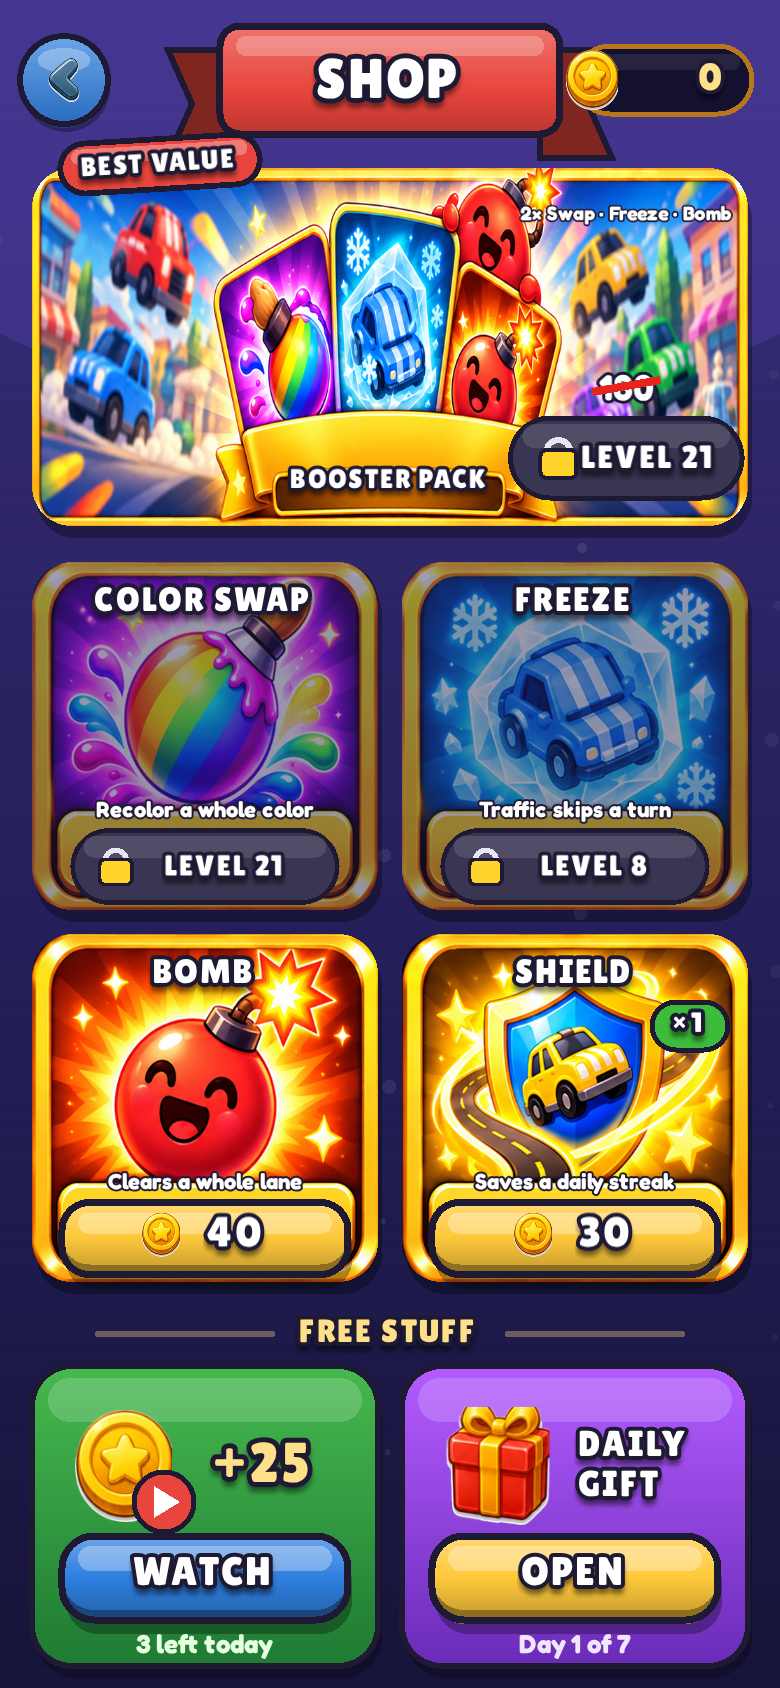
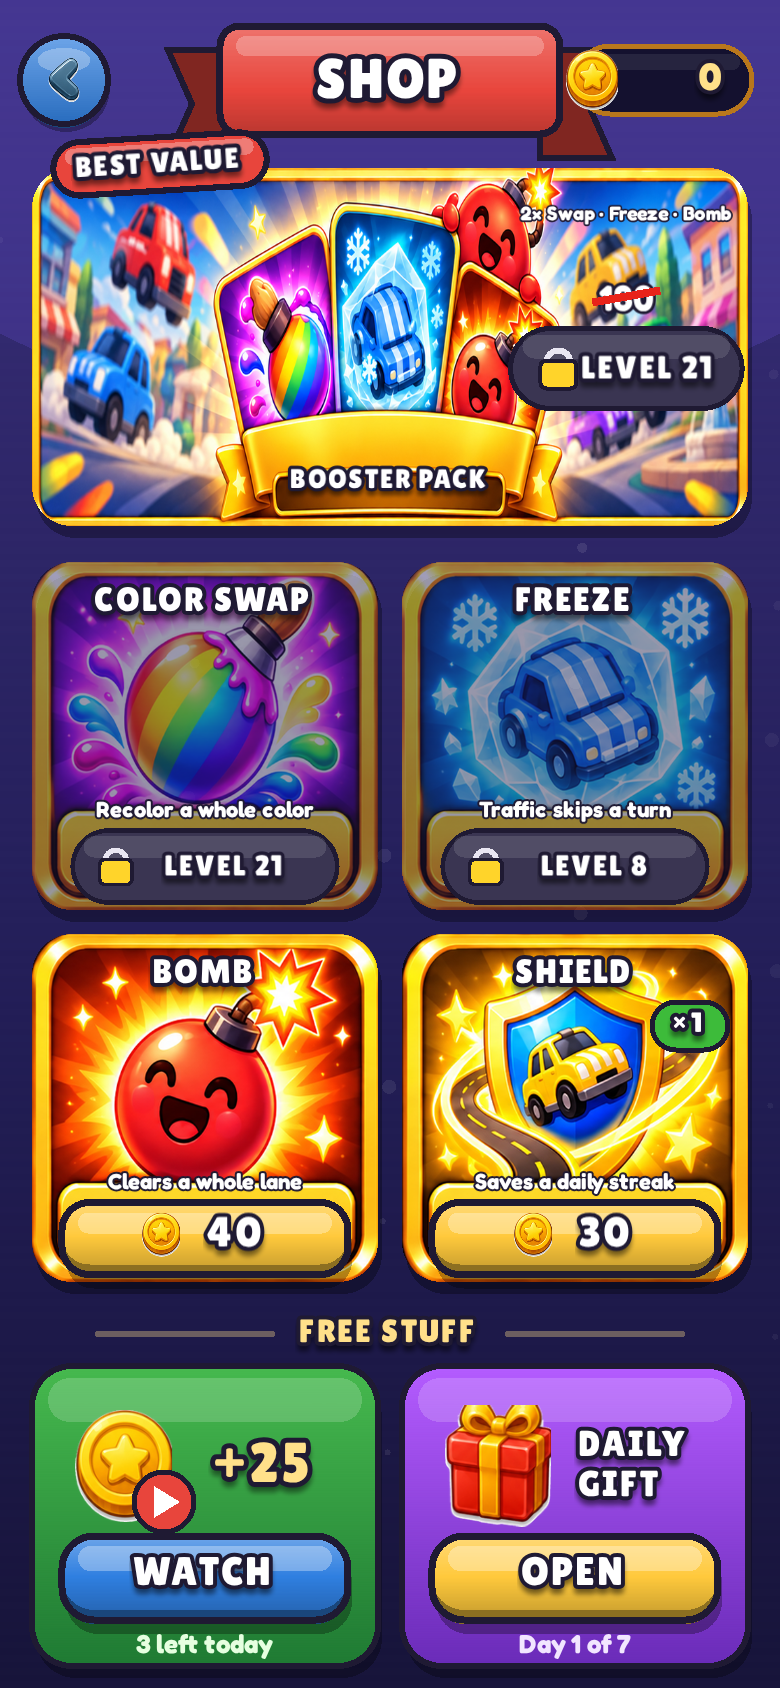
art(shop): move pack lock badge/price above ribbon — no UI overlap

Changed region(s): [[0.6462, 0.154, 0.9538, 0.3081], [0.0615, 0.0616, 0.3385, 0.1232], [0.5538, 0.8318, 0.7077, 0.9242]]

diff --git a/src/screens/ShopScreen.js b/src/screens/ShopScreen.js
@@ -275,7 +275,7 @@ export class ShopScreen {
     c.addChild(tag);
     this._pulses.push(Object.assign(tag, { speed: 4, amp: 0.04 }));
 
-    const bx = x + w - w * 0.17, by = y + h - 34, bw = Math.min(104, w * 0.29);
+    const bx = x + w - w * 0.17, by = y + h * 0.56, bw = Math.min(104, w * 0.29);   // above the ribbon wing, clear of it
     const old = bodyText(String(PACK_FULL), 18, 0xFFFFFF, { weight: '800' });
     old.anchor.set(0.5); old.x = bx; old.y = by - 36;
     c.addChild(old);

diff --git a/docs/review/art-gpt-wave1-hf/NOTES.md b/docs/review/art-gpt-wave1-hf/NOTES.md
@@ -10,6 +10,7 @@
 ## Code (visual only)
 - `src/renderer/assetManifest.js`: `SHOP_PACK_URL`, `SHOP_TILE_URLS`, `SHOP_ART_URLS` added to `ALL_SPRITE_URLS` preload (same pattern as BOOSTER_URLS).
 - `src/screens/ShopScreen.js`: shop previously drew the pack + tiles procedurally. When the textures are loaded it now draws the baked art (rounded-mask sprite) and overlays BOOSTER PACK / item name / desc / price button / lock plate in code; falls back to the old procedural cards if a texture is missing. Pack card uses the art's 2:1 frame (358x179); tiles 173x174 (art stretched slightly, as accepted). No prices, economy, purchase or unlock logic changed. Buy "pop" now targets an empty holder (tile art stays still).
+- Pack price button / lock badge sits above the ribbon wing (by = 0.56h) so no UI element overlaps another (Nadav rule, 2026-10-29).
 - Labels auto-shrink (`fitW`) to their wells, so nothing can overflow.
 
 ## Verification
